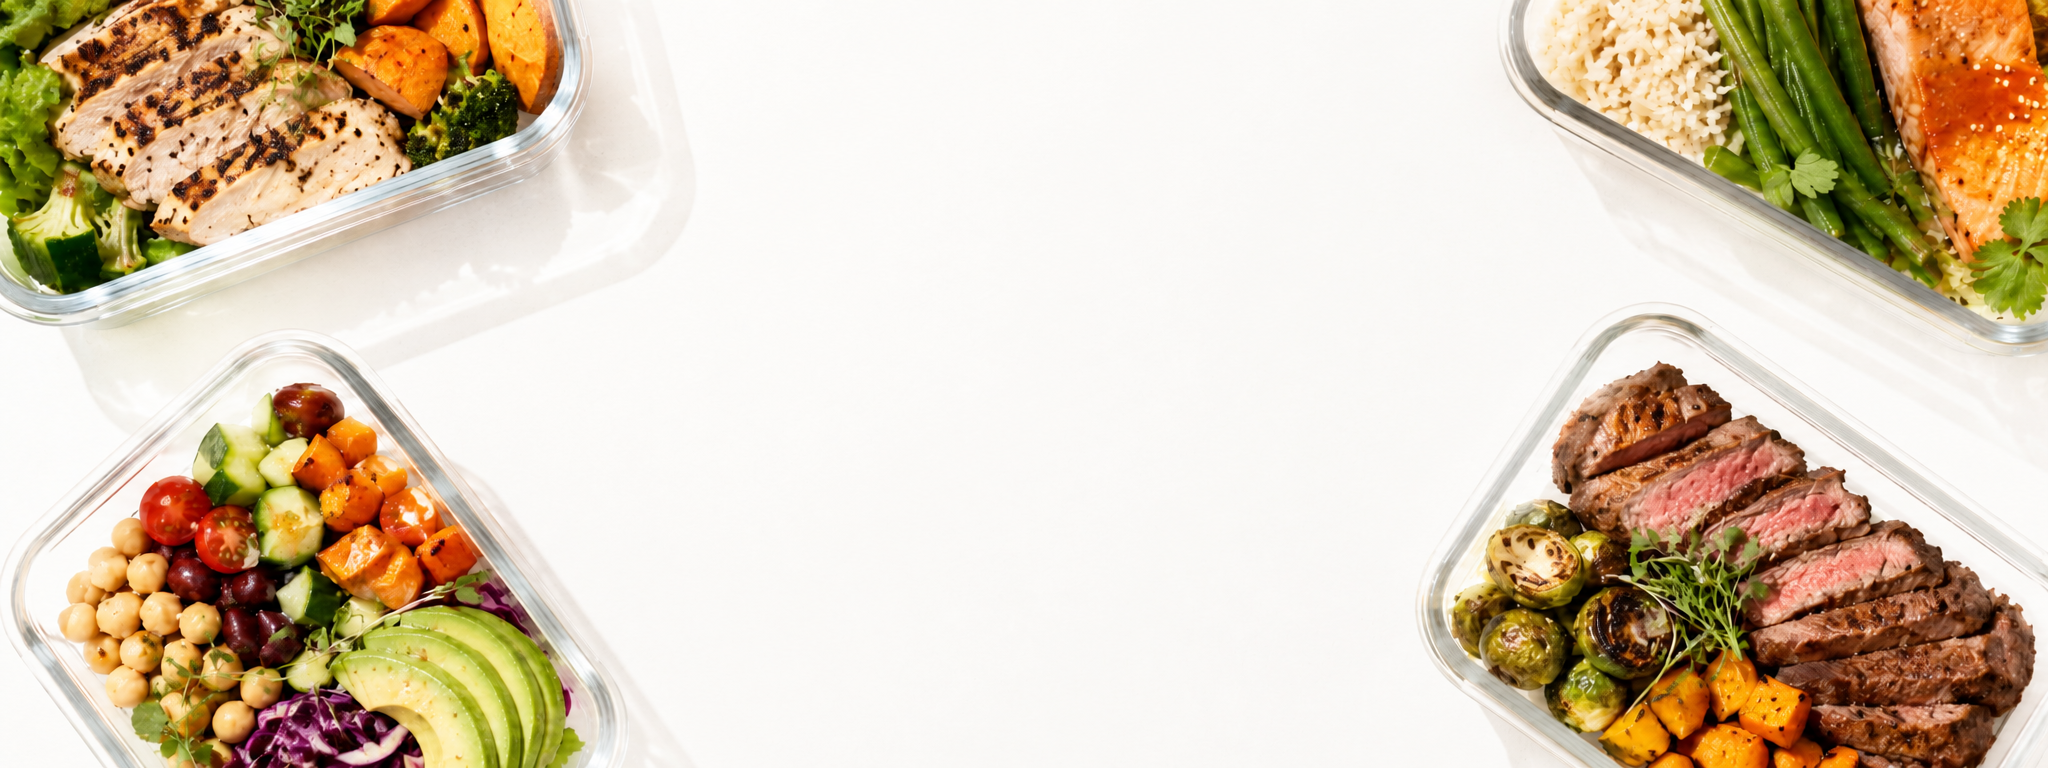
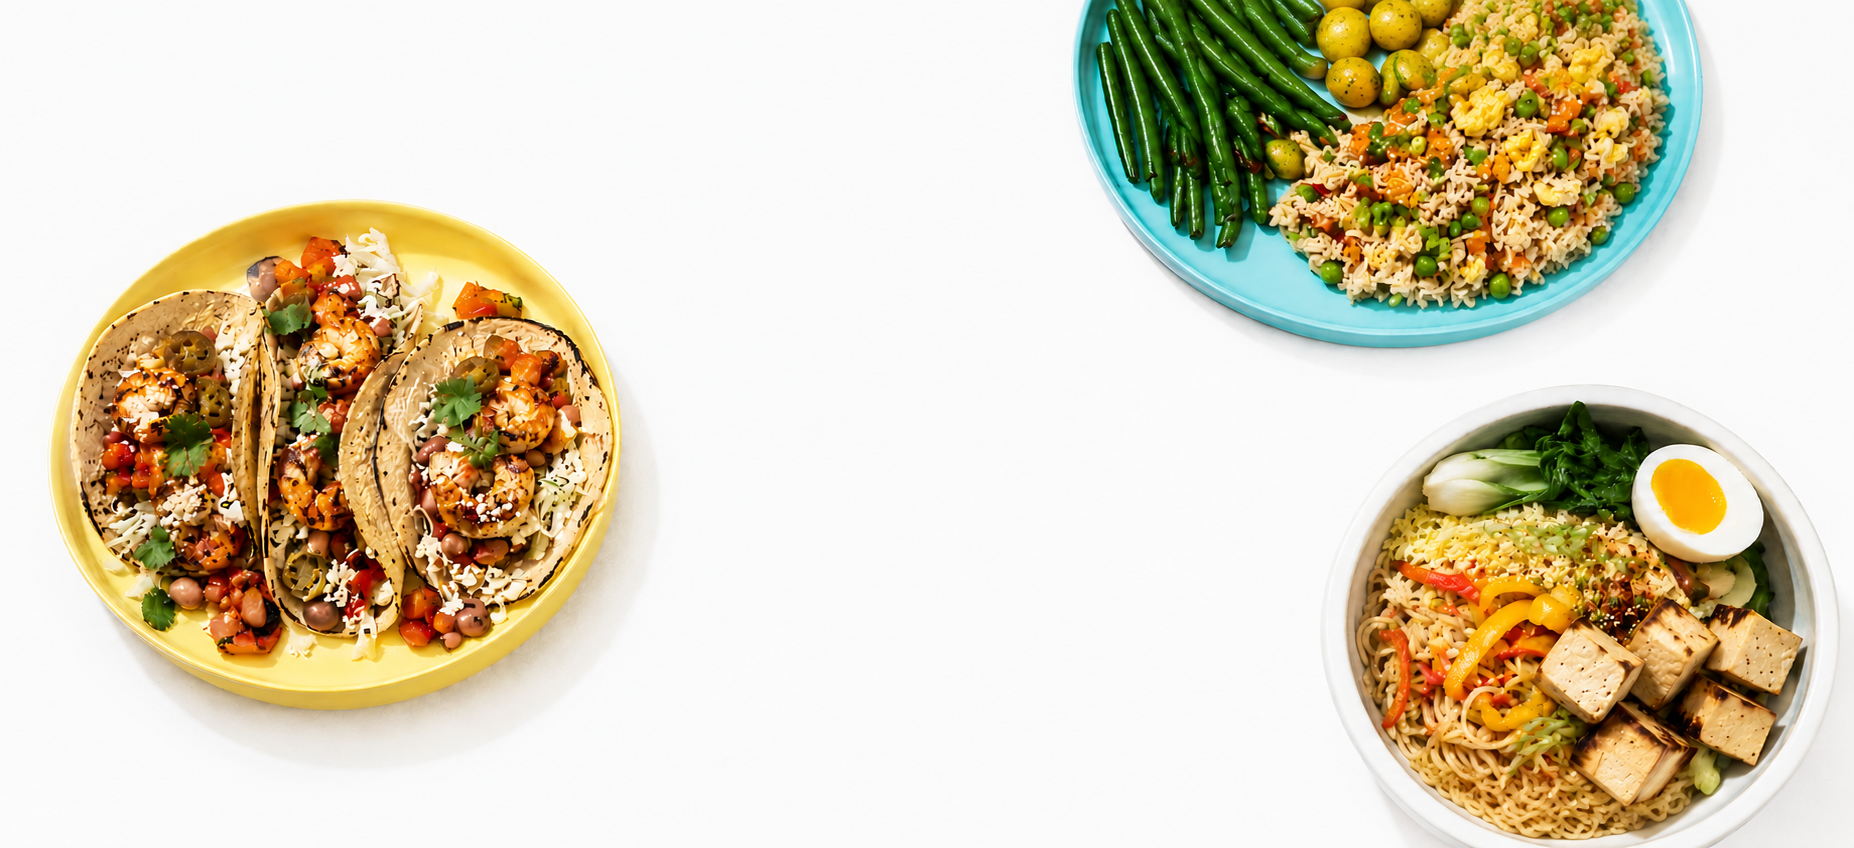
Update hero image, self-host fonts, and polish CTA button
- Replace hero background with new food photo
- Self-host Montserrat, Playfair Display, and Fraunces (replaces broken Fontshare/Recoleta CDN) so fonts load reliably
- Scale hero image 1.25× to push food to edges
- CTA button: larger padding, bigger text, black text, thinner border
- Sync all changes to docs/ for GitHub Pages

diff --git a/docs/fonts/fonts.css b/docs/fonts/fonts.css
@@ -1,0 +1,39 @@
+@font-face {
+  font-family: 'Montserrat';
+  font-style: normal;
+  font-weight: 300 700;
+  font-display: swap;
+  src: url('/fonts/montserrat-normal.woff2') format('woff2');
+}
+
+@font-face {
+  font-family: 'Montserrat';
+  font-style: italic;
+  font-weight: 300 700;
+  font-display: swap;
+  src: url('/fonts/montserrat-italic.woff2') format('woff2');
+}
+
+@font-face {
+  font-family: 'Playfair Display';
+  font-style: normal;
+  font-weight: 400 700;
+  font-display: swap;
+  src: url('/fonts/playfair-normal.woff2') format('woff2');
+}
+
+@font-face {
+  font-family: 'Playfair Display';
+  font-style: italic;
+  font-weight: 400 700;
+  font-display: swap;
+  src: url('/fonts/playfair-italic.woff2') format('woff2');
+}
+
+@font-face {
+  font-family: 'Recoleta';
+  font-style: normal;
+  font-weight: 700;
+  font-display: swap;
+  src: url('/fonts/fraunces-700.woff2') format('woff2');
+}

diff --git a/public/fonts/fonts.css b/public/fonts/fonts.css
@@ -1,0 +1,39 @@
+@font-face {
+  font-family: 'Montserrat';
+  font-style: normal;
+  font-weight: 300 700;
+  font-display: swap;
+  src: url('/fonts/montserrat-normal.woff2') format('woff2');
+}
+
+@font-face {
+  font-family: 'Montserrat';
+  font-style: italic;
+  font-weight: 300 700;
+  font-display: swap;
+  src: url('/fonts/montserrat-italic.woff2') format('woff2');
+}
+
+@font-face {
+  font-family: 'Playfair Display';
+  font-style: normal;
+  font-weight: 400 700;
+  font-display: swap;
+  src: url('/fonts/playfair-normal.woff2') format('woff2');
+}
+
+@font-face {
+  font-family: 'Playfair Display';
+  font-style: italic;
+  font-weight: 400 700;
+  font-display: swap;
+  src: url('/fonts/playfair-italic.woff2') format('woff2');
+}
+
+@font-face {
+  font-family: 'Recoleta';
+  font-style: normal;
+  font-weight: 700;
+  font-display: swap;
+  src: url('/fonts/fraunces-700.woff2') format('woff2');
+}

diff --git a/docs/styles.css b/docs/styles.css
@@ -23,6 +23,8 @@
   --red: #E04444;
 }
 
+
+
 html { scroll-behavior: smooth; }
 
 /* REVEAL (shared animation utility) */
@@ -119,7 +121,7 @@ body.page-site .nav-logo {
   font-size: 2rem;
   font-weight: 700;
   text-transform: lowercase;
-  letter-spacing: 0.06em;
+  letter-spacing: 0.05em;
   color: #1F3D2E;
 }
 body.page-site .nav-cta {
@@ -147,6 +149,7 @@ body.page-site .hero-bg {
   position: absolute; top: 0; left: 0;
   width: 100%; height: 100%;
   object-fit: cover;
+  transform: scale(1.25);
 }
 body.page-site .hero-content {
   position: absolute;
@@ -170,15 +173,15 @@ body.page-site .hero-btns { display: flex; align-items: center; justify-content:
 /* ── BUTTONS ── */
 body.page-site .btn-primary {
   font-family: 'Montserrat', sans-serif;
-  font-size: 0.95rem;
+  font-size: 1.1rem;
   font-weight: 600;
   letter-spacing: 0.08em;
   text-transform: uppercase;
   background: #DDEF5A;
-  color: #1F3D2E;
-  padding: 1.2rem 3.2rem;
+  color: #111111;
+  padding: 1.4rem 3.8rem;
   border-radius: 100px;
-  border: 2px solid #1F3D2E;
+  border: 1px solid #1F3D2E;
   text-decoration: none;
   box-shadow: 0 4px 16px rgba(0,0,0,0.13);
   transition: box-shadow 0.2s, opacity 0.2s;

diff --git a/public/styles.css b/public/styles.css
@@ -23,6 +23,8 @@
   --red: #E04444;
 }
 
+
+
 html { scroll-behavior: smooth; }
 
 /* REVEAL (shared animation utility) */
@@ -119,7 +121,7 @@ body.page-site .nav-logo {
   font-size: 2rem;
   font-weight: 700;
   text-transform: lowercase;
-  letter-spacing: 0.06em;
+  letter-spacing: 0.05em;
   color: #1F3D2E;
 }
 body.page-site .nav-cta {
@@ -147,6 +149,7 @@ body.page-site .hero-bg {
   position: absolute; top: 0; left: 0;
   width: 100%; height: 100%;
   object-fit: cover;
+  transform: scale(1.25);
 }
 body.page-site .hero-content {
   position: absolute;
@@ -170,15 +173,15 @@ body.page-site .hero-btns { display: flex; align-items: center; justify-content:
 /* ── BUTTONS ── */
 body.page-site .btn-primary {
   font-family: 'Montserrat', sans-serif;
-  font-size: 0.95rem;
+  font-size: 1.1rem;
   font-weight: 600;
   letter-spacing: 0.08em;
   text-transform: uppercase;
   background: #DDEF5A;
-  color: #1F3D2E;
-  padding: 1.2rem 3.2rem;
+  color: #111111;
+  padding: 1.4rem 3.8rem;
   border-radius: 100px;
-  border: 2px solid #1F3D2E;
+  border: 1px solid #1F3D2E;
   text-decoration: none;
   box-shadow: 0 4px 16px rgba(0,0,0,0.13);
   transition: box-shadow 0.2s, opacity 0.2s;

diff --git a/docs/index.html b/docs/index.html
@@ -4,9 +4,8 @@
 <meta charset="UTF-8">
 <meta name="viewport" content="width=device-width, initial-scale=1.0">
 <title>The Lunch Club</title>
-<link href="https://fonts.googleapis.com/css2?family=Montserrat:ital,wght@0,300;0,400;0,500;0,600;0,700;1,400&family=Playfair+Display:ital,wght@0,400;0,700;1,400;1,700&display=swap" rel="stylesheet">
-<link href="https://api.fontshare.com/v2/css?f[]=recoleta@700&display=swap" rel="stylesheet">
-<link rel="stylesheet" href="styles.css">
+<link rel="stylesheet" href="/fonts/fonts.css">
+<link rel="stylesheet" href="/styles.css">
 </head>
 <body class="page-site">
 
@@ -19,7 +18,7 @@
 
 <!-- HERO -->
 <section class="hero">
-  <img class="hero-bg" src="hero.png" alt="Fresh meal prep bowls">
+  <img class="hero-bg" src="/hero.png" alt="Fresh meal prep bowls">
   <div class="hero-content">
     <h1>Real food.<br><em>Growing Futures.</em></h1>
     <p class="hero-sub">Australia's first school lunch meal service. Zero processed ingredients</p>

diff --git a/public/index.html b/public/index.html
@@ -4,8 +4,7 @@
 <meta charset="UTF-8">
 <meta name="viewport" content="width=device-width, initial-scale=1.0">
 <title>The Lunch Club</title>
-<link href="https://fonts.googleapis.com/css2?family=Montserrat:ital,wght@0,300;0,400;0,500;0,600;0,700;1,400&family=Playfair+Display:ital,wght@0,400;0,700;1,400;1,700&display=swap" rel="stylesheet">
-<link href="https://api.fontshare.com/v2/css?f[]=recoleta@700&display=swap" rel="stylesheet">
+<link rel="stylesheet" href="/fonts/fonts.css">
 <link rel="stylesheet" href="/styles.css">
 </head>
 <body class="page-site">